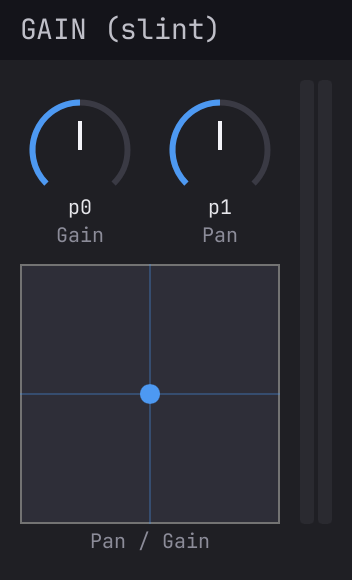
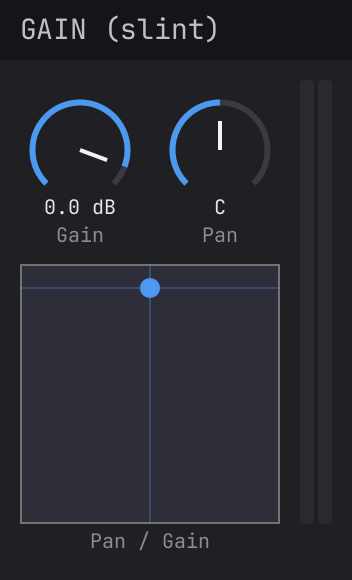
Fix screenshot param state bug

diff --git a/crates/truce-egui/src/param_state.rs b/crates/truce-egui/src/param_state.rs
@@ -74,19 +74,25 @@ impl ParamState {
         (self.ctx.request_resize)(width, height)
     }
 
-    /// Create a mock ParamState for testing. All params return defaults.
-    pub fn mock() -> Self {
-        use std::sync::Arc;
+    /// Create a ParamState backed by real parameter defaults.
+    /// Uses `P::default_for_gui()` to provide accurate formatting and values.
+    pub fn from_params<P: truce_params::Params + 'static>(params: std::sync::Arc<P>) -> Self {
+        let p1 = params.clone();
+        let p2 = params.clone();
+        let p3 = params.clone();
         Self {
             ctx: EditorContext {
-                begin_edit: Arc::new(|_| {}),
-                set_param: Arc::new(|_, _| {}),
-                end_edit: Arc::new(|_| {}),
-                request_resize: Arc::new(|_, _| false),
-                get_param: Arc::new(|_| 0.5),
-                get_param_plain: Arc::new(|_| 0.0),
-                format_param: Arc::new(|id| format!("p{id}")),
-                get_meter: Arc::new(|_| 0.0),
+                begin_edit: std::sync::Arc::new(|_| {}),
+                set_param: std::sync::Arc::new(|_, _| {}),
+                end_edit: std::sync::Arc::new(|_| {}),
+                request_resize: std::sync::Arc::new(|_, _| false),
+                get_param: std::sync::Arc::new(move |id| p1.get_normalized(id).unwrap_or(0.5)),
+                get_param_plain: std::sync::Arc::new(move |id| p2.get_plain(id).unwrap_or(0.0)),
+                format_param: std::sync::Arc::new(move |id| {
+                    let plain = p3.get_plain(id).unwrap_or(0.0);
+                    p3.format_value(id, plain).unwrap_or_else(|| format!("{plain:.2}"))
+                }),
+                get_meter: std::sync::Arc::new(|_| 0.0),
             },
         }
     }

diff --git a/crates/truce-slint/src/param_state.rs b/crates/truce-slint/src/param_state.rs
@@ -76,19 +76,25 @@ impl ParamState {
         (self.ctx.request_resize)(width, height)
     }
 
-    /// Create a mock ParamState for testing. All params return defaults.
-    pub fn mock() -> Self {
-        use std::sync::Arc;
+    /// Create a ParamState backed by real parameter defaults.
+    /// Uses `P::default_for_gui()` to provide accurate formatting and values.
+    pub fn from_params<P: truce_params::Params + 'static>(params: std::sync::Arc<P>) -> Self {
+        let p1 = params.clone();
+        let p2 = params.clone();
+        let p3 = params.clone();
         Self {
             ctx: EditorContext {
-                begin_edit: Arc::new(|_| {}),
-                set_param: Arc::new(|_, _| {}),
-                end_edit: Arc::new(|_| {}),
-                request_resize: Arc::new(|_, _| false),
-                get_param: Arc::new(|_| 0.5),
-                get_param_plain: Arc::new(|_| 0.0),
-                format_param: Arc::new(|id| format!("p{id}")),
-                get_meter: Arc::new(|_| 0.0),
+                begin_edit: std::sync::Arc::new(|_| {}),
+                set_param: std::sync::Arc::new(|_, _| {}),
+                end_edit: std::sync::Arc::new(|_| {}),
+                request_resize: std::sync::Arc::new(|_, _| false),
+                get_param: std::sync::Arc::new(move |id| p1.get_normalized(id).unwrap_or(0.5)),
+                get_param_plain: std::sync::Arc::new(move |id| p2.get_plain(id).unwrap_or(0.0)),
+                format_param: std::sync::Arc::new(move |id| {
+                    let plain = p3.get_plain(id).unwrap_or(0.0);
+                    p3.format_value(id, plain).unwrap_or_else(|| format!("{plain:.2}"))
+                }),
+                get_meter: std::sync::Arc::new(|_| 0.0),
             },
         }
     }

diff --git a/crates/truce-egui/src/snapshot.rs b/crates/truce-egui/src/snapshot.rs
@@ -9,14 +9,18 @@ use crate::ParamState;
 ///
 /// `width` and `height` are in logical points. The output pixel buffer
 /// is `width * ppp × height * ppp` physical pixels.
-pub fn render_to_pixels(
+///
+/// Uses `P::default_for_gui()` to provide accurate parameter values
+/// and formatting in the snapshot.
+pub fn render_to_pixels<P: truce_params::Params + 'static>(
     width: u32,
     height: u32,
     pixels_per_point: f32,
     font: Option<&'static [u8]>,
     ui_fn: impl Fn(&egui::Context, &ParamState),
 ) -> Vec<u8> {
-    let state = ParamState::mock();
+    let params = std::sync::Arc::new(P::default_for_gui());
+    let state = ParamState::from_params(params);
     let ctx = egui::Context::default();
     ctx.set_visuals(crate::theme::dark());
 
@@ -205,7 +209,7 @@ pub fn render_to_pixels(
 /// exceeds `max_diff_pixels`.
 ///
 /// The snapshot directory is resolved relative to the workspace root.
-pub fn assert_snapshot(
+pub fn assert_snapshot<P: truce_params::Params + 'static>(
     snapshot_dir: &str,
     name: &str,
     width: u32,
@@ -215,7 +219,7 @@ pub fn assert_snapshot(
     font: Option<&'static [u8]>,
     ui_fn: impl Fn(&egui::Context, &ParamState),
 ) {
-    let pixels = render_to_pixels(width, height, pixels_per_point, font, ui_fn);
+    let pixels = render_to_pixels::<P>(width, height, pixels_per_point, font, ui_fn);
     let phys_w = (width as f32 * pixels_per_point) as u32;
     let phys_h = (height as f32 * pixels_per_point) as u32;
 

diff --git a/crates/truce-slint/src/snapshot.rs b/crates/truce-slint/src/snapshot.rs
@@ -21,7 +21,7 @@ use crate::platform;
 ///
 /// `scale` is the DPI scale factor (2.0 for Retina). The returned pixel
 /// buffer is `(width * scale) × (height * scale)` physical pixels.
-pub fn render_to_pixels(
+pub fn render_to_pixels<P: truce_params::Params + 'static>(
     width: u32,
     height: u32,
     scale: f32,
@@ -38,7 +38,8 @@ pub fn render_to_pixels(
         scale_factor: scale,
     });
 
-    let state = ParamState::mock();
+    let params = std::sync::Arc::new(P::default_for_gui());
+    let state = ParamState::from_params(params);
     let sync_fn = setup(state.clone());
 
     // Sync params so the UI shows default values.
@@ -77,7 +78,7 @@ pub fn render_to_pixels(
 /// On first run (no reference exists), saves the reference and returns.
 /// On subsequent runs, compares pixel-by-pixel and panics if the diff
 /// exceeds `max_diff_pixels`.
-pub fn assert_snapshot(
+pub fn assert_snapshot<P: truce_params::Params + 'static>(
     snapshot_dir: &str,
     name: &str,
     width: u32,
@@ -86,7 +87,7 @@ pub fn assert_snapshot(
     max_diff_pixels: usize,
     setup: impl FnOnce(ParamState) -> Box<dyn Fn(&ParamState)>,
 ) {
-    let (pixels, width, height) = render_to_pixels(width, height, scale, setup);
+    let (pixels, width, height) = render_to_pixels::<P>(width, height, scale, setup);
 
     let manifest_dir = Path::new(env!("CARGO_MANIFEST_DIR"));
     // Walk up to workspace root (truce-slint → crates → root)

diff --git a/examples/gain-egui/src/lib.rs b/examples/gain-egui/src/lib.rs
@@ -154,7 +154,7 @@ mod tests {
 
     #[test]
     fn gui_snapshot() {
-        truce_egui::snapshot::assert_snapshot(
+        truce_egui::snapshot::assert_snapshot::<GainParams>(
             "screenshots", "gain_egui_default",
             WINDOW_W, WINDOW_H, 2.0, 0,
             Some(truce_gui::font::JETBRAINS_MONO),

diff --git a/examples/gain-slint/src/lib.rs b/examples/gain-slint/src/lib.rs
@@ -132,7 +132,7 @@ mod tests {
 
     #[test]
     fn gui_snapshot() {
-        truce_slint::snapshot::assert_snapshot(
+        truce_slint::snapshot::assert_snapshot::<GainParams>(
             "screenshots", "gain_slint_default",
             176, 290, 2.0, 0,
             |state| {
